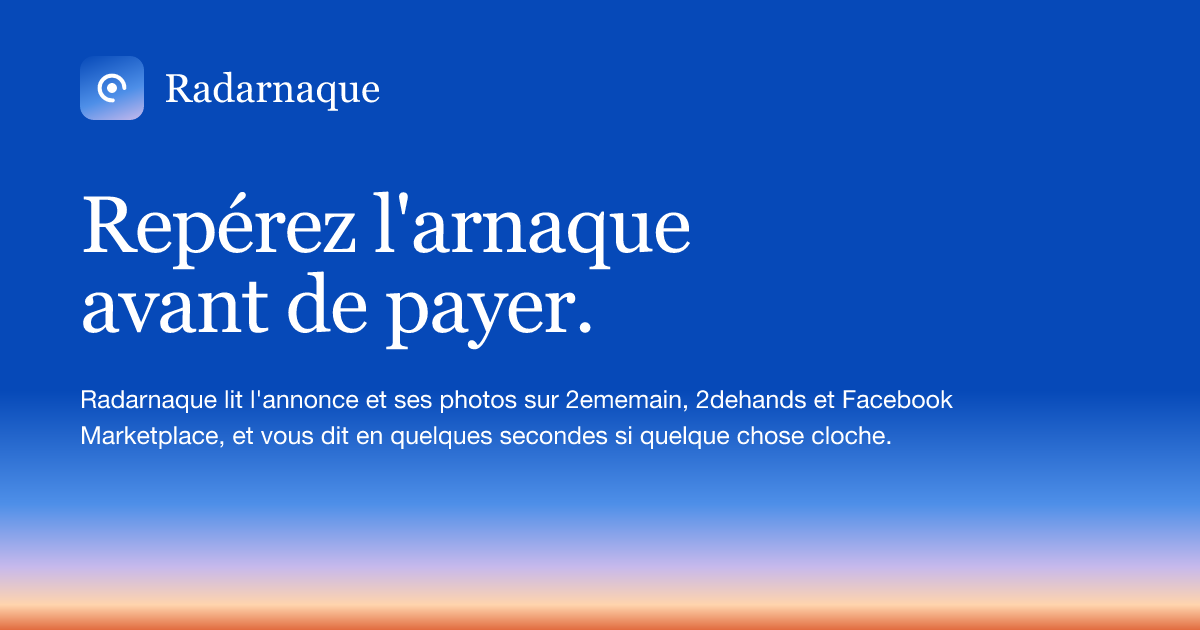
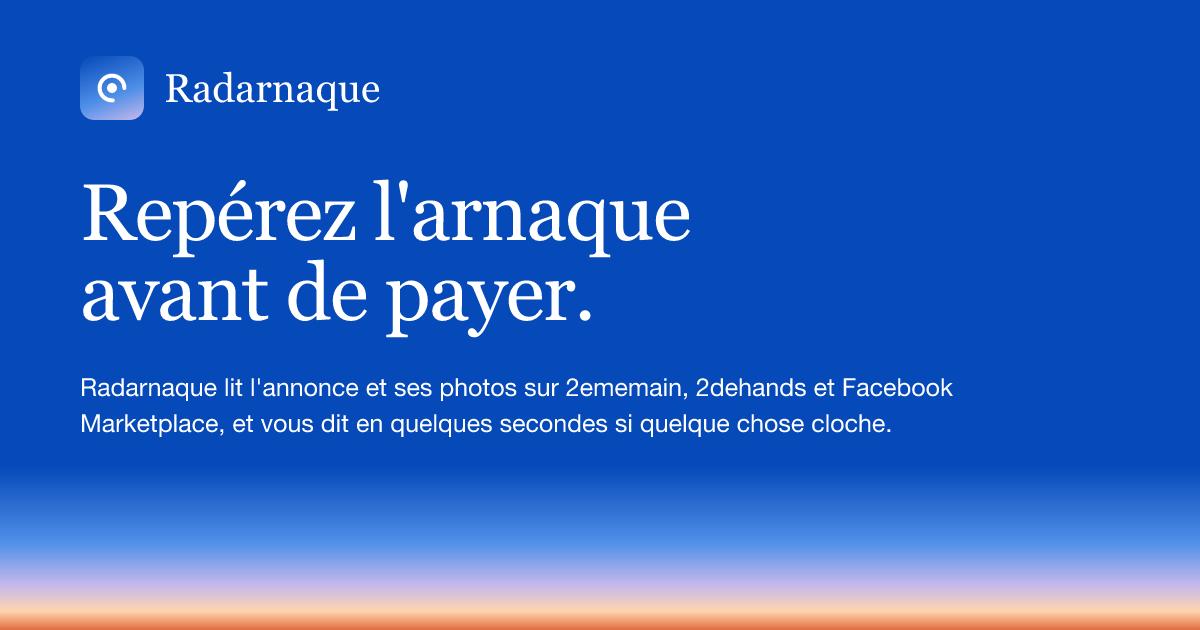
fix(site): maquette rangée et lisible entre 768 et 1023 px, image OG sur le cobalt, /privacy à 70 caractères
- panneau de la maquette limité à la colonne de droite sous 1024 px : il couvrait
  la fin de la description ;
- rayons et police de la fiche imitée rangés dans le bloc commenté (--mk-r-*,
  --mk-font) ; test mobile renforcé (.mk-main, .mk-price, vendeur cachés, panneau
  statique) ;
- maquette dans un <aside> : tout le contenu de la landing est dans un repère ;
- images Open Graph : accroche entièrement sur le cobalt (arrêt descendu, texte
  remonté), régénérées ; scripts/ inclus dans le tsconfig, test de la mise en page ;
- /privacy : colonne de 31rem (68 caractères au plus, mesuré) au lieu de 65ch ;
- vite.config.ts : note sur pnpm dev:site, qui ne relit pas les modules du plugin.

diff --git a/apps/site/scripts/og.ts b/apps/site/scripts/og.ts
@@ -2,7 +2,8 @@
  * Génère les images Open Graph de la landing (spec du socle §2.5, spec landing §2) :
  * `public/og-fr.png` et `public/og-nl.png`, 1200 × 630. Le dégradé du hero, la
  * tuile du logo, « Radarnaque », le titre et l'accroche de la langue.
- * Usage : `pnpm --filter site og` (les PNG générés sont commités).
+ * Usage : `pnpm --filter site og` (les PNG générés sont commités). Importé (tests),
+ * le module n'écrit rien : seul `node scripts/og.ts` génère les images.
  *
  * resvg ne lit pas le WOFF2 des polices du site : il prend les polices du système
  * (Georgia pour le serif, Helvetica ou Arial pour le sans).
@@ -15,23 +16,28 @@ import { Resvg } from "@resvg/resvg-js";
 import { LANDING_TEXT } from "../src/landing/i18n.ts";
 
 const WIDTH = 1200;
-const HEIGHT = 630;
+export const HEIGHT = 630;
 const MARGIN = 80;
 
 /**
  * Couleurs de `--grad-1` à `--grad-5` (tokens.css, `--gradient-hero`) : resvg
  * ignore les variables CSS. Comme dans le hero de la landing (landing.css),
  * l'arrêt cobalt descend sous les textes, pour que le blanc garde son contraste ;
- * le bleu ciel, le lilas, la pêche et l'orange font l'horizon du bas.
+ * le bleu ciel, le lilas, la pêche et l'orange font l'horizon du bas. Le cobalt
+ * plein va jusqu'à 74 % (466 px) : l'accroche (au plus bas vers 440 px) n'est plus
+ * à cheval sur le passage au bleu ciel.
  */
-const HERO_STOPS = [
+export const HERO_STOPS = [
 	["#0649b8", 0],
-	["#0649b8", 0.62],
-	["#4e8fe8", 0.8],
-	["#c7b9ec", 0.9],
-	["#ffd4ad", 0.96],
+	["#0649b8", 0.74],
+	["#4e8fe8", 0.86],
+	["#c7b9ec", 0.93],
+	["#ffd4ad", 0.97],
 	["#e16c3f", 1],
 ] as const;
+
+/** Corps de l'accroche (px) ; ses jambages descendent d'environ un quart sous la ligne de base. */
+const TAGLINE_SIZE = 25;
 
 const SERIF = "Georgia, 'Times New Roman', serif";
 const SANS = "'Helvetica Neue', Helvetica, Arial, sans-serif";
@@ -75,16 +81,25 @@ function textLines(
 		.join("");
 }
 
-function ogSvg(locale: Locale): string {
+/** Lignes du titre et de l'accroche, et leurs lignes de base (px). */
+export function ogLayout(locale: Locale) {
 	const t = LANDING_TEXT[locale];
+	const title = wrap(t.heroTitle, 20);
+	const tagline = wrap(t.heroTagline, 78);
+	const titleY = 240;
+	const taglineY = titleY + (title.length - 1) * 80 + 76;
+	/** Bas de la dernière ligne de l'accroche, jambages compris. */
+	const taglineBottom =
+		taglineY + (tagline.length - 1) * 36 + Math.ceil(TAGLINE_SIZE * 0.25);
+	return { title, tagline, titleY, taglineY, taglineBottom };
+}
+
+export function ogSvg(locale: Locale): string {
 	const stops = HERO_STOPS.map(
 		([color, at]) => `<stop offset="${at}" stop-color="${color}"/>`,
 	).join("");
 	const tile = iconTileSvg(64).replace("<svg ", `<svg x="${MARGIN}" y="56" `);
-	const title = wrap(t.heroTitle, 20);
-	const tagline = wrap(t.heroTagline, 78);
-	const titleY = 252;
-	const taglineY = titleY + (title.length - 1) * 80 + 76;
+	const { title, tagline, titleY, taglineY } = ogLayout(locale);
 	return (
 		`<svg xmlns="http://www.w3.org/2000/svg" width="${WIDTH}" height="${HEIGHT}" viewBox="0 0 ${WIDTH} ${HEIGHT}">` +
 		`<defs><linearGradient id="hero" x1="0" y1="0" x2="0" y2="1">${stops}</linearGradient></defs>` +
@@ -101,20 +116,21 @@ function ogSvg(locale: Locale): string {
 			tagline,
 			taglineY,
 			36,
-			`font-family="${SANS}" font-size="25" fill="#ffffff"`,
+			`font-family="${SANS}" font-size="${TAGLINE_SIZE}" fill="#ffffff"`,
 		) +
 		`</svg>`
 	);
 }
 
 const publicDir = resolve(import.meta.dirname, "../public");
-for (const locale of ["fr", "nl"] as const) {
-	const png = new Resvg(ogSvg(locale), {
-		fitTo: { mode: "width", value: WIDTH },
-		font: { loadSystemFonts: true, defaultFontFamily: "Georgia" },
-	})
-		.render()
-		.asPng();
-	writeFileSync(resolve(publicDir, `og-${locale}.png`), png);
-	console.log(`og-${locale}.png`);
-}
+if (import.meta.main)
+	for (const locale of ["fr", "nl"] as const) {
+		const png = new Resvg(ogSvg(locale), {
+			fitTo: { mode: "width", value: WIDTH },
+			font: { loadSystemFonts: true, defaultFontFamily: "Georgia" },
+		})
+			.render()
+			.asPng();
+		writeFileSync(resolve(publicDir, `og-${locale}.png`), png);
+		console.log(`og-${locale}.png`);
+	}

diff --git a/apps/site/src/landing/mockup.css b/apps/site/src/landing/mockup.css
@@ -12,8 +12,9 @@
 	/*
 	 * couleurs du site tiers : début
 	 * Seules valeurs brutes du site hors de tokens.css (spec landing §4) : elles
-	 * imitent la fiche d'un site tiers (fond, filets, encre, liens, bouton jaune)
-	 * et colorent la photo dessinée du produit. Rien de Radarnaque ici.
+	 * imitent la fiche d'un site tiers (fond, filets, encre, liens, bouton jaune,
+	 * rayons et police) et colorent la photo dessinée du produit. Rien de
+	 * Radarnaque ici.
 	 */
 	--mk-page: #fbfbfa;
 	--mk-surface: #ffffff;
@@ -46,9 +47,13 @@
 	--mk-ph-screen: #131318;
 	--mk-ph-island: #050507;
 	--mk-ph-print: #e0dfda;
+	/* Rayons et police de la fiche imitée (pas ceux de Radarnaque). */
+	--mk-r-s: 4px;
+	--mk-r-m: 6px;
+	--mk-r-l: 8px;
+	--mk-font: "Helvetica Neue", Helvetica, Arial, sans-serif;
 	/* couleurs du site tiers : fin */
 
-	--mk-font: "Helvetica Neue", Helvetica, Arial, sans-serif;
 	/* Marge intérieure de la fiche ; le panneau déborde de la fenêtre de --mk-out. */
 	--mk-pad: 24px;
 	--mk-out: 28px;
@@ -187,7 +192,7 @@
 	overflow: hidden;
 	border: 1px solid var(--mk-line-strong);
 	border-right: 0;
-	border-radius: 4px 0 0 4px;
+	border-radius: var(--mk-r-s) 0 0 var(--mk-r-s);
 	background-color: var(--mk-surface);
 	color: var(--mk-ink-2);
 	font-size: 0.75rem;
@@ -199,7 +204,7 @@
 	display: grid;
 	place-items: center;
 	width: 36px;
-	border-radius: 0 4px 4px 0;
+	border-radius: 0 var(--mk-r-s) var(--mk-r-s) 0;
 	background-color: var(--mk-brand);
 	color: var(--mk-surface);
 }
@@ -217,7 +222,7 @@
 	align-items: center;
 	height: 32px;
 	padding: 0 14px;
-	border-radius: 6px;
+	border-radius: var(--mk-r-m);
 	background-color: var(--mk-cta);
 	color: var(--mk-brand);
 	font-weight: 700;
@@ -243,7 +248,7 @@
 	height: 28px;
 	padding: 0 12px 0 8px;
 	border: 1.5px solid var(--mk-back-border);
-	border-radius: 4px;
+	border-radius: var(--mk-r-s);
 	color: var(--mk-brand);
 	font-weight: 700;
 }
@@ -290,7 +295,7 @@
 	bottom: 22px;
 	left: 10px;
 	padding: 3px 8px;
-	border-radius: 8px;
+	border-radius: var(--mk-r-l);
 	background-color: var(--mk-counter);
 	color: var(--mk-counter-ink);
 	font-size: 0.6875rem;
@@ -308,7 +313,7 @@
 	height: 58px;
 	overflow: hidden;
 	border: 2px solid transparent;
-	border-radius: 4px;
+	border-radius: var(--mk-r-s);
 }
 
 .mk-thumb--current {
@@ -365,7 +370,7 @@
 	display: inline-block;
 	margin: 12px 16px 0;
 	padding: 4px 8px;
-	border-radius: 4px;
+	border-radius: var(--mk-r-s);
 	background-color: var(--mk-muted);
 	font-size: 0.75rem;
 }
@@ -407,7 +412,7 @@
 	place-items: center;
 	height: 38px;
 	margin: 16px 16px 0;
-	border-radius: 6px;
+	border-radius: var(--mk-r-m);
 	background-color: var(--mk-cta);
 	color: var(--mk-brand);
 	font-weight: 700;
@@ -768,6 +773,12 @@
 
 	.mk-grid {
 		grid-template-columns: minmax(0, 1fr) 272px;
+	}
+
+	/* Panneau sur la seule colonne de droite : à 340 px, il couvrait la fin de la
+	   description (le lien de paiement que cite sa première raison). */
+	.mk-panel {
+		width: calc(100% + var(--mk-pad) + var(--mk-out));
 	}
 
 	.mk-thumb:nth-child(n + 4) {

diff --git a/apps/site/test/landing-mockup.test.ts b/apps/site/test/landing-mockup.test.ts
@@ -204,6 +204,20 @@ describe("mockup.css", () => {
 		// Hors du bloc : aucune couleur brute.
 		const dehors = [...lignes.slice(0, debut), ...lignes.slice(fin + 1)];
 		expect(dehors.filter((l) => COULEUR.test(l))).toEqual([]);
+		// Rayons et police de la fiche imitée : dans le bloc aussi (--mk-r-*, --mk-font).
+		for (const nom of ["--mk-r-s", "--mk-r-m", "--mk-r-l", "--mk-font"])
+			expect(
+				variables.some((l) => l.includes(`${nom}:`)),
+				nom,
+			).toBe(true);
+		const rayonsBruts = dehors.filter((l) =>
+			/border-radius:[^;]*\b[1-9]\d*px/.test(l),
+		);
+		expect(rayonsBruts).toEqual([]);
+		const polices = dehors.filter((l) => /font-family:/.test(l));
+		expect(polices.length).toBeGreaterThan(0);
+		for (const ligne of polices)
+			expect(ligne, ligne).toMatch(/font-family:\s*var\(--[\w-]+\);/);
 	});
 
 	it("flottement de 6 s et 4 px coupé sous mouvement réduit ; sous 768 px, plus de fenêtre", () => {
@@ -214,6 +228,24 @@ describe("mockup.css", () => {
 		);
 		expect(CSS).toMatch(/@media \(max-width: 767px\)/);
 		const mobile = CSS.slice(CSS.indexOf("@media (max-width: 767px)"));
-		expect(mobile).toMatch(/\.mk-chrome[^{]*\{[^}]*display:\s*none/);
+		// Titre, pastille et panneau seuls : la fenêtre, la galerie, le prix et le
+		// vendeur disparaissent.
+		const cache = /^([^{]*)\{\s*display:\s*none;\s*\}/m.exec(
+			mobile.slice(mobile.indexOf(".mk-chrome")),
+		)?.[1];
+		for (const sel of [".mk-chrome", ".mk-main", ".mk-price", ".mk-seller"])
+			expect(cache?.split(",").map((s) => s.trim())).toContain(sel);
+		// Panneau à plat, dans le flux.
+		expect(mobile).toMatch(/\.mk-panel\s*\{[^}]*position:\s*static/);
+		expect(mobile).toMatch(/\.mk\s*\{[^}]*animation:\s*none/);
+	});
+
+	it("entre 768 et 1023 px, le panneau ne couvre que la colonne de droite (la description reste lisible)", () => {
+		const debut = CSS.indexOf("@media (max-width: 1023px)");
+		expect(debut).toBeGreaterThan(-1);
+		const bloc = CSS.slice(debut, CSS.indexOf("@media (max-width: 767px)"));
+		expect(bloc).toMatch(
+			/\.mk-panel\s*\{[^}]*width:\s*calc\(100% \+ var\(--mk-pad\) \+ var\(--mk-out\)\)/,
+		);
 	});
 });

diff --git a/apps/site/test/og.test.ts b/apps/site/test/og.test.ts
@@ -1,0 +1,27 @@
+import { describe, expect, it } from "vitest";
+import { HEIGHT, HERO_STOPS, ogLayout, ogSvg } from "../scripts/og.ts";
+
+/** Fin du cobalt plein : dernier arrêt `--grad-1` avant le passage au bleu ciel. */
+const cobaltEnd =
+	Math.max(
+		...HERO_STOPS.filter(([color]) => color === "#0649b8").map(([, at]) => at),
+	) * HEIGHT;
+
+describe("images Open Graph (scripts/og.ts)", () => {
+	it.each(["fr", "nl"] as const)(
+		"%s : titre et accroche entièrement sur le cobalt plein (pas à cheval sur le passage au bleu ciel)",
+		(locale) => {
+			const { taglineBottom, tagline } = ogLayout(locale);
+			expect(tagline.length).toBeGreaterThan(0);
+			expect(taglineBottom).toBeLessThan(cobaltEnd);
+		},
+	);
+
+	it("dessine le titre et l'accroche de la langue, échappés", () => {
+		const svg = ogSvg("fr");
+		expect(svg).toContain("Radarnaque");
+		expect(svg).toContain("Repérez");
+		expect(svg).toContain("l&#39;arnaque");
+		expect(svg).not.toContain("l'arnaque");
+	});
+});

diff --git a/apps/site/test/landing-render.test.ts b/apps/site/test/landing-render.test.ts
@@ -131,6 +131,16 @@ describe("renderLanding : textes", () => {
 		const root = monter(rendu("fr"));
 		expect(root.querySelector("nav.site-nav")).not.toBeNull();
 		expect(root.querySelector("[data-mockup]")).not.toBeNull();
+		// Tout le contenu dans un repère (règle « region ») : en-tête, maquette en
+		// `aside`, `main`, pied de page ; seul le calque décoratif du dégradé est à part.
+		expect(root.querySelector("[data-mockup]")?.tagName).toBe("ASIDE");
+		for (const enfant of root.children) {
+			if (enfant.getAttribute("aria-hidden") === "true") continue;
+			expect(
+				["HEADER", "ASIDE", "MAIN", "FOOTER"],
+				enfant.outerHTML.slice(0, 60),
+			).toContain(enfant.tagName);
+		}
 		expect(root.querySelector("section#comment")).not.toBeNull();
 		expect(root.querySelector("section#formules")).not.toBeNull();
 		expect(root.querySelector("footer.site-footer")).not.toBeNull();

diff --git a/apps/site/src/landing/render.ts b/apps/site/src/landing/render.ts
@@ -271,9 +271,11 @@ export function landingNodes(locale: Locale, options: LandingOptions): VNode[] {
 		// Calque fixe du dégradé qui suit le scroll (spec landing §5.1), derrière la page.
 		h("div", { class: "sky", "aria-hidden": "true" }),
 		hero(locale, storeUrl),
-		// Maquette du produit (spec landing §4), à cheval sur le bas du hero.
+		// Maquette du produit (spec landing §4), à cheval sur le bas du hero. Dans un
+		// repère `complementary` (tout le contenu de la page est dans un repère) ; son
+		// nom reste celui de l'illustration (`role="img"` et sa description).
 		h(
-			"div",
+			"aside",
 			{ class: "landing-mockup", "data-mockup": true },
 			mockupNode(locale),
 		),

diff --git a/apps/site/test/static-pages.test.ts b/apps/site/test/static-pages.test.ts
@@ -115,3 +115,17 @@ describe("/auth/callback", () => {
 		});
 	});
 });
+
+describe("/privacy : largeur de lecture", () => {
+	it("colonne en rem, 32rem au plus (45 à 70 caractères d'Inter par ligne, mesuré au navigateur), plus en ch", () => {
+		const css = lire("src/pages.css");
+		const regle = /\.page-main--prose\s*\{([^}]*)\}/.exec(css)?.[1] ?? "";
+		const largeur = /max-width:\s*calc\((\d+(?:\.\d+)?)rem \+ 48px\)/.exec(
+			regle,
+		);
+		expect(largeur, regle).not.toBeNull();
+		expect(Number(largeur?.[1])).toBeLessThanOrEqual(32);
+		expect(Number(largeur?.[1])).toBeGreaterThanOrEqual(24);
+		expect(regle).not.toContain("ch");
+	});
+});

diff --git a/apps/site/vite.config.ts b/apps/site/vite.config.ts
@@ -4,7 +4,10 @@ import { landingPlugin } from "./src/landing/plugin.ts";
 
 export default defineConfig({
 	base: "/",
-	// Landing rendue au build en FR (`/`) et en NL (`/nl/`).
+	// Landing rendue au build en FR (`/`) et en NL (`/nl/`). Le plugin et les modules
+	// qu'il importe (`src/landing/i18n.ts`, `render.ts`, `head.ts`, `mockup.ts`,
+	// `src/pages-i18n.ts`…) sont chargés avec cette configuration : `vite build --watch`
+	// (`pnpm dev:site`) ne les relit pas. Après une modification, relancer `pnpm dev:site`.
 	plugins: [landingPlugin()],
 	build: {
 		rollupOptions: {

diff --git a/apps/site/src/pages.css b/apps/site/src/pages.css
@@ -56,9 +56,11 @@ h1 {
 	margin: 0;
 }
 
-/* /privacy : colonne de lecture d'environ 65 caractères. */
+/* /privacy : colonne de lecture de 45 à 70 caractères (spec landing §6). `65ch` (la
+   largeur de 65 « 0 ») laissait passer jusqu'à 90 caractères d'Inter par ligne à
+   1440 px ; 31rem en donne 68 au plus (mesuré en FR et en NL). */
 .page-main--prose {
-	max-width: calc(65ch + 48px);
+	max-width: calc(31rem + 48px);
 }
 
 .page-main--prose h2 {
